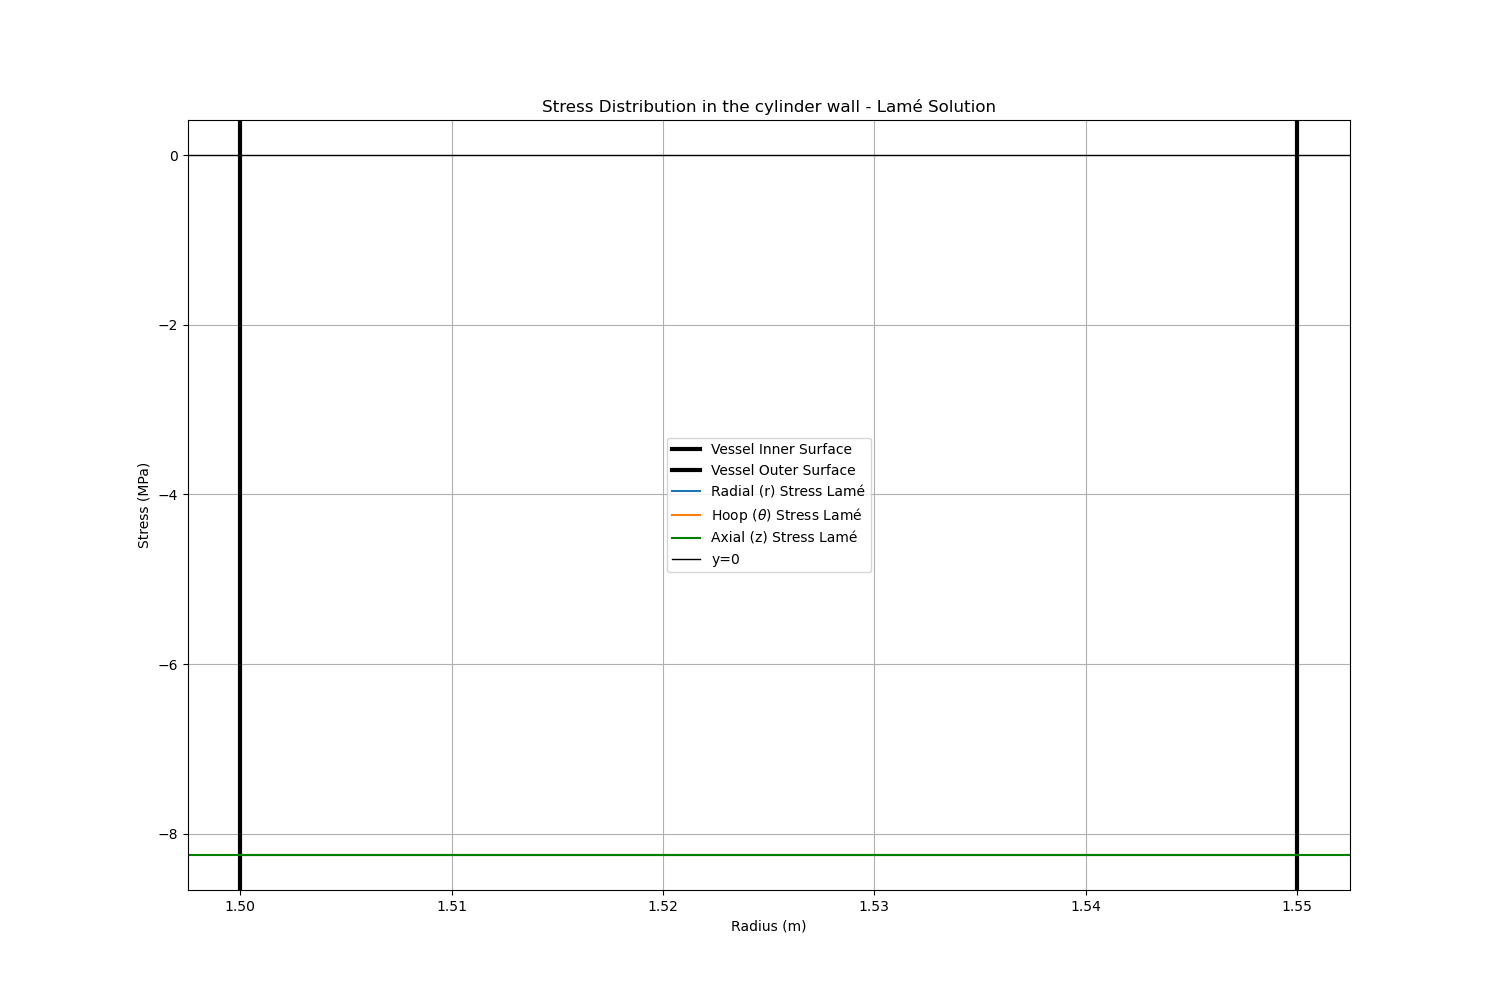
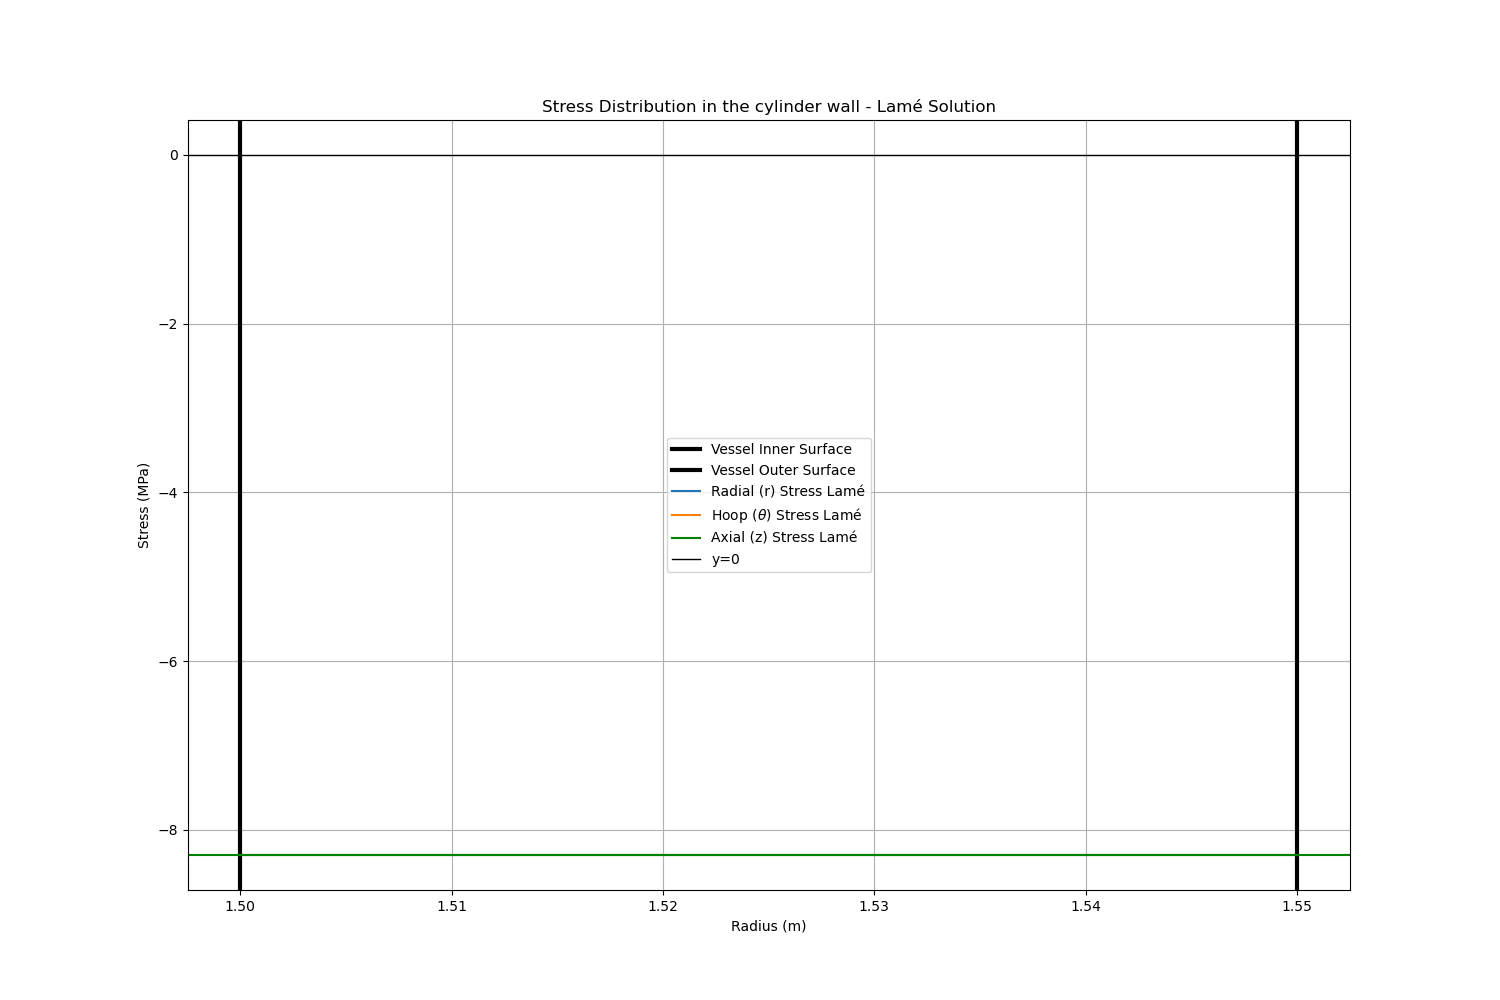
Typo

diff --git a/src/main.py b/src/main.py
@@ -1199,7 +1199,7 @@ if not TS_flag:
                 output_lines.append("============================================================================================================================")
             if (sigma_cTR_M < sigma_allowable):
                 output_lines.append("The comparison stress according to Tresca-Mariotte Sc = %.3f MPa is lower than the allowable stress Sa = %.3f MPa" %(sigma_cTR_M, sigma_allowable))
-                output_lines.append("============================================================================================================================")
+                output_lines.append("\n============================================================================================================================")
             else:
                 output_lines.append("\n============================================================================================================================")
                 output_lines.append("The comparison stress according to Tresca-Mariotte Sc = %.3f MPa is higher than the allowable stress Sa = %.3f MPa" %(sigma_cTR_M, sigma_allowable))
@@ -2921,7 +2921,7 @@ elif TS_flag:
             output_lines.append("============================================================================================================================")
         if (sigma_cTR_MS < sigma_allowable_S):
             output_lines.append("The comparison stress according to Tresca-Mariotte Sc = %.3f MPa is lower than the allowable stress Sa = %.3f MPa" %(sigma_cTR_MS, sigma_allowable_S))
-            output_lines.append("============================================================================================================================")
+            output_lines.append("\n============================================================================================================================")
         else:
             output_lines.append("\n============================================================================================================================")
             output_lines.append("The comparison stress according to Tresca-Mariotte Sc = %.3f MPa is higher than the allowable stress Sa = %.3f MPa" %(sigma_cTR_MS, sigma_allowable_S))
@@ -2996,7 +2996,7 @@ elif TS_flag:
             output_lines.append("============================================================================================================================")
         if (sigma_cTR_M < sigma_allowable):
             output_lines.append("The comparison stress according to Tresca-Mariotte Sc = %.3f MPa is lower than the allowable stress Sa = %.3f MPa" %(sigma_cTR_M, sigma_allowable))
-            output_lines.append("============================================================================================================================")
+            output_lines.append("\n============================================================================================================================")
         else:
             output_lines.append("\n============================================================================================================================")
             output_lines.append("The comparison stress according to Tresca-Mariotte Sc = %.3f MPa is higher than the allowable stress Sa = %.3f MPa" %(sigma_cTR_M, sigma_allowable))
